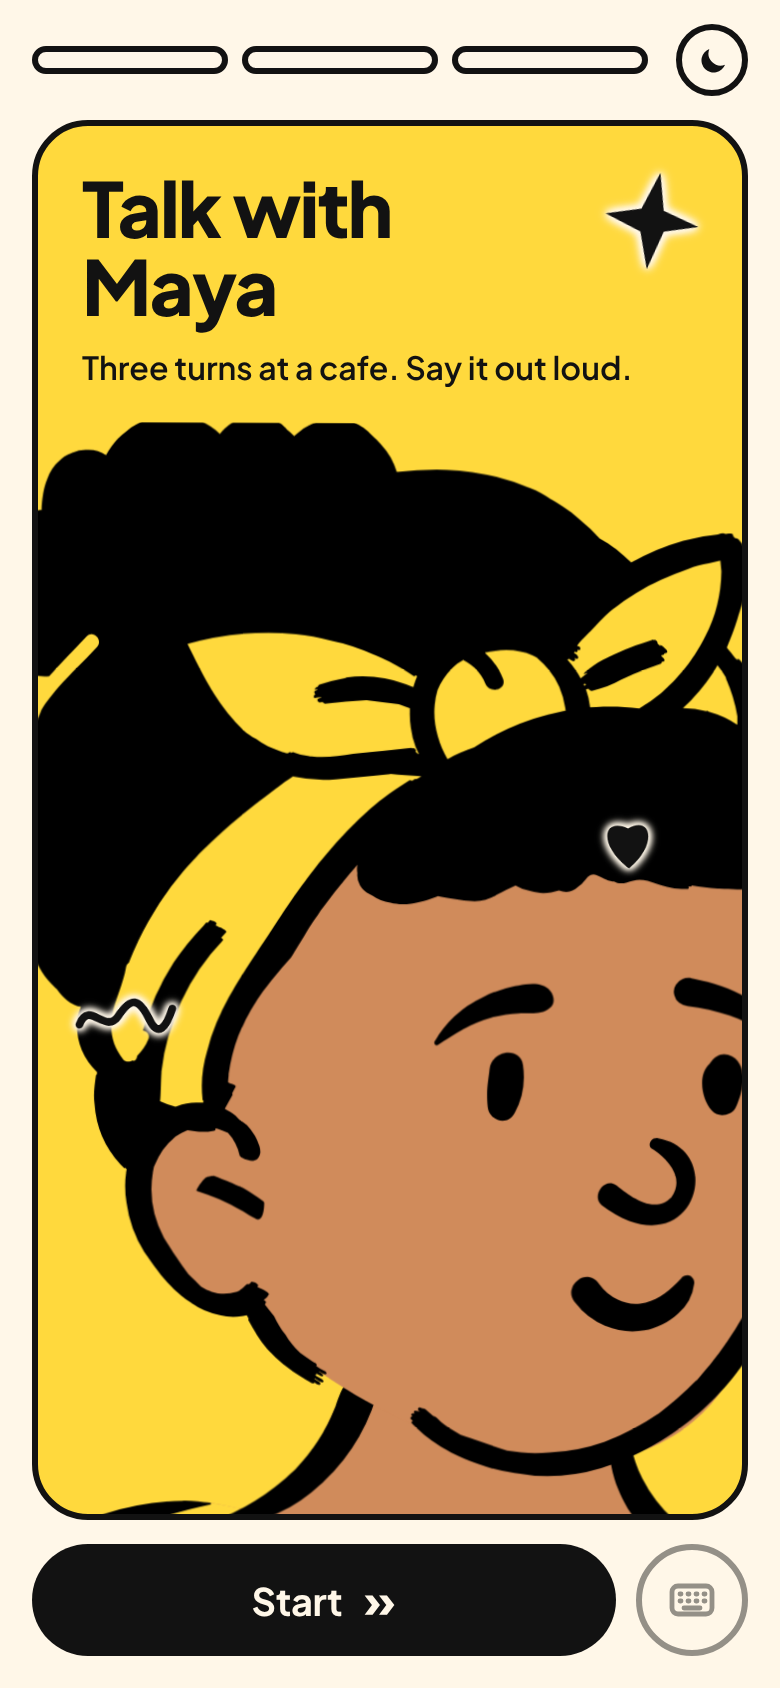
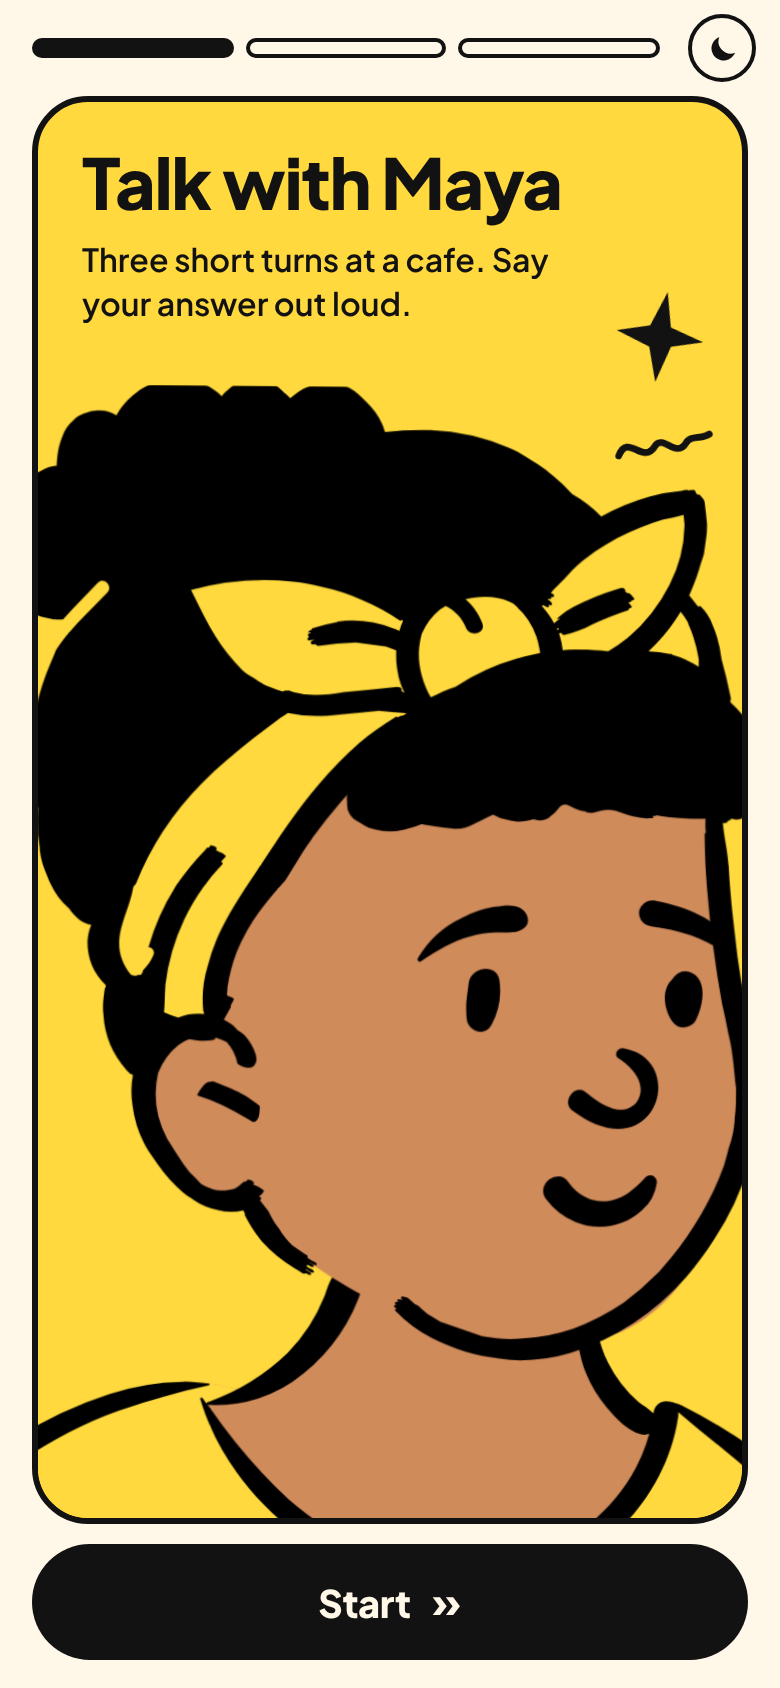
Talk with Maya: fix the end card, and keep every sticker off her hair
The end card was the weak one: the three ink bars never drew (a span
with no display:block has no height), and the cream panel they sat in
was a box inside a box across her face, with an empty gap under the
headline above it.

- The bars now sit on a band of the card's own colour at the foot of
  the card, labels inline, and she comes up 70 px so her laughing face
  fills the card and only her shoulders go behind them.
- Dropped the ear and note stickers and the ambient heart: all three
  landed on her hair or her collar, black on black, and read as stray
  marks. The star and the squiggle move to the clear right-hand column.
- The celebration star is cream with an ink outline, so it reads over
  her hair as well as over the block colour.
- Unspoken karaoke words go from 32% to 62% ink, which is readable
  grey rather than a hint.
- The shoot answers one turn loosely, so the end card shows three
  different bars instead of three full ones.

Changed region(s): [[0.0308, 0.0, 0.9846, 0.9858], [0.0308, 0.3389, 0.1538, 0.4313], [0.0308, 0.2773, 0.0615, 0.3081]]

diff --git a/docs/prototypes/01-talk-with-maya.html b/docs/prototypes/01-talk-with-maya.html
@@ -108,7 +108,7 @@ h1{
 .bubble:after{left:34px; bottom:-13px; border-width:13px 10px 0 0; border-color:var(--cream) transparent transparent transparent}
 .bubble.mine{background:var(--paper)}
 .bubble.mine:after{border-top-color:var(--paper)}
-.w{opacity:.32; transition:opacity .12s linear; display:inline-block}
+.w{opacity:.62; transition:opacity .12s linear; display:inline-block}
 .w.said{opacity:1}
 .w.now{opacity:1; animation:wordPop .22s var(--spring); text-decoration:underline; text-decoration-thickness:4px; text-underline-offset:4px}
 @keyframes wordPop{from{transform:scale(.9)} 60%{transform:scale(1.07)} to{transform:scale(1)}}
@@ -139,31 +139,30 @@ h1{
 .tw{animation:twinkle 4s ease-in-out infinite}
 @keyframes twinkle{0%,100%{transform:scale(1) rotate(0)} 42%{transform:scale(1.2) rotate(11deg)} 68%{transform:scale(.93) rotate(-5deg)}}
 .s-star{top:96px; right:20px}
-.s-squiggle{top:170px; left:14px; animation-delay:.9s}
-.s-heart{bottom:26px; right:24px; animation-delay:1.8s}
-.s-ear{top:214px; right:30px; opacity:0; transform:scale(.5); transition:opacity .26s, transform .34s var(--spring)}
-.card[data-state="listen"] .s-ear{opacity:1; transform:none}
-.s-note{top:150px; right:46px; opacity:0; transform:scale(.5)}
-.card[data-state="speak"] .s-note{opacity:1; transform:none; animation:note 1.5s ease-in-out infinite}
-@keyframes note{0%{opacity:0; transform:translate(0,6px) scale(.7)} 30%{opacity:1} 100%{opacity:0; transform:translate(16px,-26px) scale(1.05)}}
+.s-squiggle{top:156px; right:14px; animation-delay:.9s}
 .burst{
-  position:absolute; z-index:4; top:120px; left:50%; margin-left:-64px; width:128px; height:128px;
+  position:absolute; z-index:4; top:150px; right:6px; width:118px; height:118px;
   opacity:0; pointer-events:none;
 }
 .burst.go{animation:burst .72s var(--spring) both}
 @keyframes burst{0%{opacity:0; transform:scale(.3) rotate(-30deg)} 55%{opacity:1; transform:scale(1.16) rotate(10deg)} 100%{opacity:0; transform:scale(1.3) rotate(16deg)}}
 
-/* ---------- score bars (end card) ---------- */
+/* ---------- score bars (end card) ----------
+   Straight on the block colour, over her shoulders: a cream panel here
+   would be a box inside a box and would cover her face. */
 .bars{
-  position:absolute; z-index:4; left:14px; right:14px; bottom:14px; padding:16px 18px 18px;
-  background:var(--cream); border:3px solid var(--ink); border-radius:22px;
-  box-shadow:5px 5px 0 var(--ink); display:none;
+  position:absolute; z-index:4; left:0; right:0; bottom:0; display:none;
+  padding:16px 22px 20px; background:var(--block);
   animation:bubbleIn .4s var(--spring) .1s both;
 }
 .card[data-state="done"] .bars{display:block}
-.bar + .bar{margin-top:12px}
-.bar b{display:block; font-size:13px; font-weight:800; letter-spacing:.09em; text-transform:uppercase; margin-bottom:5px}
-.track{height:18px; border:3px solid var(--ink); border-radius:99px; background:var(--paper); overflow:hidden}
+/* she comes up so her face fills the gap under the headline and her
+   shoulders, not her face, sit behind the bars */
+.card[data-state="done"] .scene{transform:translateY(-70px)}
+.bar{display:flex; align-items:center; gap:12px}
+.bar + .bar{margin-top:11px}
+.bar b{flex:none; width:82px; font-size:12px; font-weight:800; letter-spacing:.08em; text-transform:uppercase}
+.track{display:block; flex:1; height:20px; border:3px solid var(--ink); border-radius:99px; background:var(--cream); overflow:hidden}
 .fill{display:block; height:100%; width:0; background:var(--ink); border-radius:99px; transition:width .85s var(--spring)}
 
 /* ---------- dock ---------- */
@@ -177,7 +176,7 @@ h1{
 }
 .pill:active{transform:translateY(2px) scale(.985)}
 /* Dimmed, but the label still clears 4.5:1 against the pill. */
-.pill[disabled]{opacity:.68; cursor:default; box-shadow:none}
+.pill[disabled]{cursor:default}
 .pill .chev{font-size:22px; line-height:1; margin-top:-2px}
 .pill svg{width:22px; height:22px; display:block}
 .pill .ring{
@@ -201,7 +200,7 @@ h1{
 .hide{display:none !important}
 
 @media (prefers-reduced-motion:reduce){
-  .sway,.tw,.pill.live .ring,.card[data-state="speak"] .s-note{animation:none !important}
+  .sway,.tw,.pill.live .ring{animation:none !important}
   *{animation-duration:.01ms !important; animation-iteration-count:1 !important; transition-duration:.12s !important}
 }
 @media (max-height:700px){
@@ -244,10 +243,7 @@ h1{
 
     <span class="stick s-star tw" aria-hidden="true"><svg width="42" height="42" viewBox="0 0 24 24"><path d="M12.4.9 14.4 9.5 22.9 12.1 15.1 14.3 12.4 23.5 9.7 15 1.1 12 9.2 9.7Z" fill="currentColor"/></svg></span>
     <span class="stick s-squiggle tw" aria-hidden="true"><svg width="50" height="34" viewBox="0 0 50 24" fill="none" stroke="currentColor" stroke-width="3.4" stroke-linecap="round"><path d="M2.5 16C7 4.2 14.5 20.9 20.5 11.1 24.4 4.8 31 17.5 36 9.4c2.6-4.2 7-1.4 11.5-4.4"/></svg></span>
-    <span class="stick s-heart tw" aria-hidden="true"><svg width="30" height="30" viewBox="0 0 24 24"><path d="M11.7 21.6C1.5 13.4 3.1 3.9 12 7.9c8.2-4.8 10.7 5.6.4 14.1Z" fill="currentColor"/></svg></span>
-    <span class="stick s-note" aria-hidden="true"><svg width="30" height="30" viewBox="0 0 24 24"><path d="M9 18.2V5.4l11-2.3v12.6" fill="none" stroke="currentColor" stroke-width="3" stroke-linecap="round"/><circle cx="6" cy="18.4" r="3.4" fill="currentColor"/><circle cx="17" cy="16.2" r="3.4" fill="currentColor"/></svg></span>
-    <span class="stick s-ear" aria-hidden="true"><svg width="54" height="42" viewBox="0 0 54 42" fill="none" stroke="currentColor" stroke-width="3.4" stroke-linecap="round"><path d="M22 39c-2.5-6-6-7-9.5-10.5S7 19 10 12.5 20.5 3 26 5.5s7.5 9 4 13-6 3.5-6 8"/><path d="M38 11.5c3.2 3 3.2 11 0 14M46.5 5.5c6 6.5 6 20.5 0 26.5"/></svg></span>
-    <span class="burst" id="burst" aria-hidden="true"><svg viewBox="0 0 128 128"><path d="M64 2 76 46l44-12-32 30 32 30-44-12-12 44-12-44-44 12 32-30L8 34l44 12Z" fill="currentColor"/></svg></span>
+    <span class="burst" id="burst" aria-hidden="true"><svg viewBox="0 0 128 128"><path d="M64 2 76 46l44-12-32 30 32 30-44-12-12 44-12-44-44 12 32-30L8 34l44 12Z" fill="var(--cream)" stroke="currentColor" stroke-width="7" stroke-linejoin="round"/></svg></span>
 
     <div class="bars" id="bars" role="group" aria-label="How you sounded">
       <div class="bar"><b>Sounds</b><span class="track"><i class="fill" id="f0"></i></span></div>

diff --git a/docs/prototypes/src/01-talk-with-maya.html b/docs/prototypes/src/01-talk-with-maya.html
@@ -108,7 +108,7 @@ h1{
 .bubble:after{left:34px; bottom:-13px; border-width:13px 10px 0 0; border-color:var(--cream) transparent transparent transparent}
 .bubble.mine{background:var(--paper)}
 .bubble.mine:after{border-top-color:var(--paper)}
-.w{opacity:.32; transition:opacity .12s linear; display:inline-block}
+.w{opacity:.62; transition:opacity .12s linear; display:inline-block}
 .w.said{opacity:1}
 .w.now{opacity:1; animation:wordPop .22s var(--spring); text-decoration:underline; text-decoration-thickness:4px; text-underline-offset:4px}
 @keyframes wordPop{from{transform:scale(.9)} 60%{transform:scale(1.07)} to{transform:scale(1)}}
@@ -139,31 +139,30 @@ h1{
 .tw{animation:twinkle 4s ease-in-out infinite}
 @keyframes twinkle{0%,100%{transform:scale(1) rotate(0)} 42%{transform:scale(1.2) rotate(11deg)} 68%{transform:scale(.93) rotate(-5deg)}}
 .s-star{top:96px; right:20px}
-.s-squiggle{top:170px; left:14px; animation-delay:.9s}
-.s-heart{bottom:26px; right:24px; animation-delay:1.8s}
-.s-ear{top:214px; right:30px; opacity:0; transform:scale(.5); transition:opacity .26s, transform .34s var(--spring)}
-.card[data-state="listen"] .s-ear{opacity:1; transform:none}
-.s-note{top:150px; right:46px; opacity:0; transform:scale(.5)}
-.card[data-state="speak"] .s-note{opacity:1; transform:none; animation:note 1.5s ease-in-out infinite}
-@keyframes note{0%{opacity:0; transform:translate(0,6px) scale(.7)} 30%{opacity:1} 100%{opacity:0; transform:translate(16px,-26px) scale(1.05)}}
+.s-squiggle{top:156px; right:14px; animation-delay:.9s}
 .burst{
-  position:absolute; z-index:4; top:120px; left:50%; margin-left:-64px; width:128px; height:128px;
+  position:absolute; z-index:4; top:150px; right:6px; width:118px; height:118px;
   opacity:0; pointer-events:none;
 }
 .burst.go{animation:burst .72s var(--spring) both}
 @keyframes burst{0%{opacity:0; transform:scale(.3) rotate(-30deg)} 55%{opacity:1; transform:scale(1.16) rotate(10deg)} 100%{opacity:0; transform:scale(1.3) rotate(16deg)}}
 
-/* ---------- score bars (end card) ---------- */
+/* ---------- score bars (end card) ----------
+   Straight on the block colour, over her shoulders: a cream panel here
+   would be a box inside a box and would cover her face. */
 .bars{
-  position:absolute; z-index:4; left:14px; right:14px; bottom:14px; padding:16px 18px 18px;
-  background:var(--cream); border:3px solid var(--ink); border-radius:22px;
-  box-shadow:5px 5px 0 var(--ink); display:none;
+  position:absolute; z-index:4; left:0; right:0; bottom:0; display:none;
+  padding:16px 22px 20px; background:var(--block);
   animation:bubbleIn .4s var(--spring) .1s both;
 }
 .card[data-state="done"] .bars{display:block}
-.bar + .bar{margin-top:12px}
-.bar b{display:block; font-size:13px; font-weight:800; letter-spacing:.09em; text-transform:uppercase; margin-bottom:5px}
-.track{height:18px; border:3px solid var(--ink); border-radius:99px; background:var(--paper); overflow:hidden}
+/* she comes up so her face fills the gap under the headline and her
+   shoulders, not her face, sit behind the bars */
+.card[data-state="done"] .scene{transform:translateY(-70px)}
+.bar{display:flex; align-items:center; gap:12px}
+.bar + .bar{margin-top:11px}
+.bar b{flex:none; width:82px; font-size:12px; font-weight:800; letter-spacing:.08em; text-transform:uppercase}
+.track{display:block; flex:1; height:20px; border:3px solid var(--ink); border-radius:99px; background:var(--cream); overflow:hidden}
 .fill{display:block; height:100%; width:0; background:var(--ink); border-radius:99px; transition:width .85s var(--spring)}
 
 /* ---------- dock ---------- */
@@ -177,7 +176,7 @@ h1{
 }
 .pill:active{transform:translateY(2px) scale(.985)}
 /* Dimmed, but the label still clears 4.5:1 against the pill. */
-.pill[disabled]{opacity:.68; cursor:default; box-shadow:none}
+.pill[disabled]{cursor:default}
 .pill .chev{font-size:22px; line-height:1; margin-top:-2px}
 .pill svg{width:22px; height:22px; display:block}
 .pill .ring{
@@ -201,7 +200,7 @@ h1{
 .hide{display:none !important}
 
 @media (prefers-reduced-motion:reduce){
-  .sway,.tw,.pill.live .ring,.card[data-state="speak"] .s-note{animation:none !important}
+  .sway,.tw,.pill.live .ring{animation:none !important}
   *{animation-duration:.01ms !important; animation-iteration-count:1 !important; transition-duration:.12s !important}
 }
 @media (max-height:700px){
@@ -244,10 +243,7 @@ h1{
 
     <span class="stick s-star tw" aria-hidden="true"><svg width="42" height="42" viewBox="0 0 24 24"><path d="M12.4.9 14.4 9.5 22.9 12.1 15.1 14.3 12.4 23.5 9.7 15 1.1 12 9.2 9.7Z" fill="currentColor"/></svg></span>
     <span class="stick s-squiggle tw" aria-hidden="true"><svg width="50" height="34" viewBox="0 0 50 24" fill="none" stroke="currentColor" stroke-width="3.4" stroke-linecap="round"><path d="M2.5 16C7 4.2 14.5 20.9 20.5 11.1 24.4 4.8 31 17.5 36 9.4c2.6-4.2 7-1.4 11.5-4.4"/></svg></span>
-    <span class="stick s-heart tw" aria-hidden="true"><svg width="30" height="30" viewBox="0 0 24 24"><path d="M11.7 21.6C1.5 13.4 3.1 3.9 12 7.9c8.2-4.8 10.7 5.6.4 14.1Z" fill="currentColor"/></svg></span>
-    <span class="stick s-note" aria-hidden="true"><svg width="30" height="30" viewBox="0 0 24 24"><path d="M9 18.2V5.4l11-2.3v12.6" fill="none" stroke="currentColor" stroke-width="3" stroke-linecap="round"/><circle cx="6" cy="18.4" r="3.4" fill="currentColor"/><circle cx="17" cy="16.2" r="3.4" fill="currentColor"/></svg></span>
-    <span class="stick s-ear" aria-hidden="true"><svg width="54" height="42" viewBox="0 0 54 42" fill="none" stroke="currentColor" stroke-width="3.4" stroke-linecap="round"><path d="M22 39c-2.5-6-6-7-9.5-10.5S7 19 10 12.5 20.5 3 26 5.5s7.5 9 4 13-6 3.5-6 8"/><path d="M38 11.5c3.2 3 3.2 11 0 14M46.5 5.5c6 6.5 6 20.5 0 26.5"/></svg></span>
-    <span class="burst" id="burst" aria-hidden="true"><svg viewBox="0 0 128 128"><path d="M64 2 76 46l44-12-32 30 32 30-44-12-12 44-12-44-44 12 32-30L8 34l44 12Z" fill="currentColor"/></svg></span>
+    <span class="burst" id="burst" aria-hidden="true"><svg viewBox="0 0 128 128"><path d="M64 2 76 46l44-12-32 30 32 30-44-12-12 44-12-44-44 12 32-30L8 34l44 12Z" fill="var(--cream)" stroke="currentColor" stroke-width="7" stroke-linejoin="round"/></svg></span>
 
     <div class="bars" id="bars" role="group" aria-label="How you sounded">
       <div class="bar"><b>Sounds</b><span class="track"><i class="fill" id="f0"></i></span></div>
